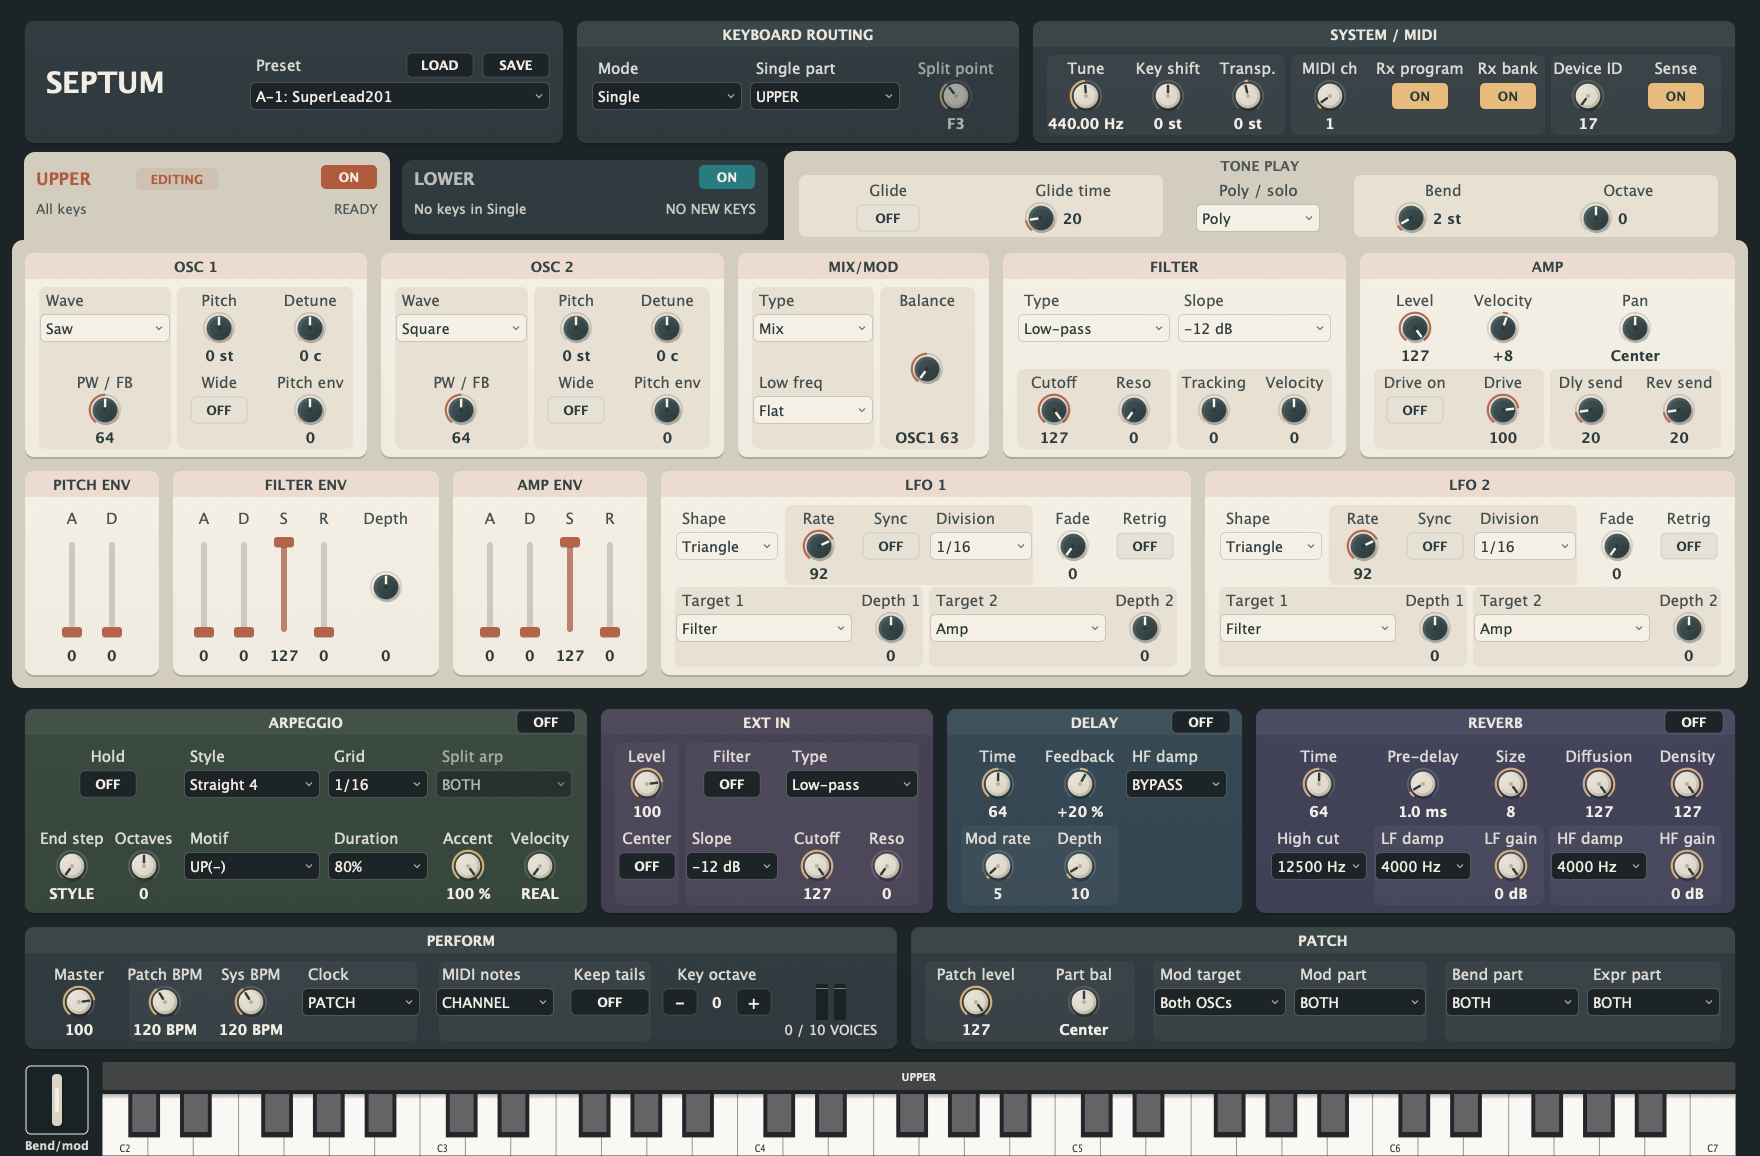
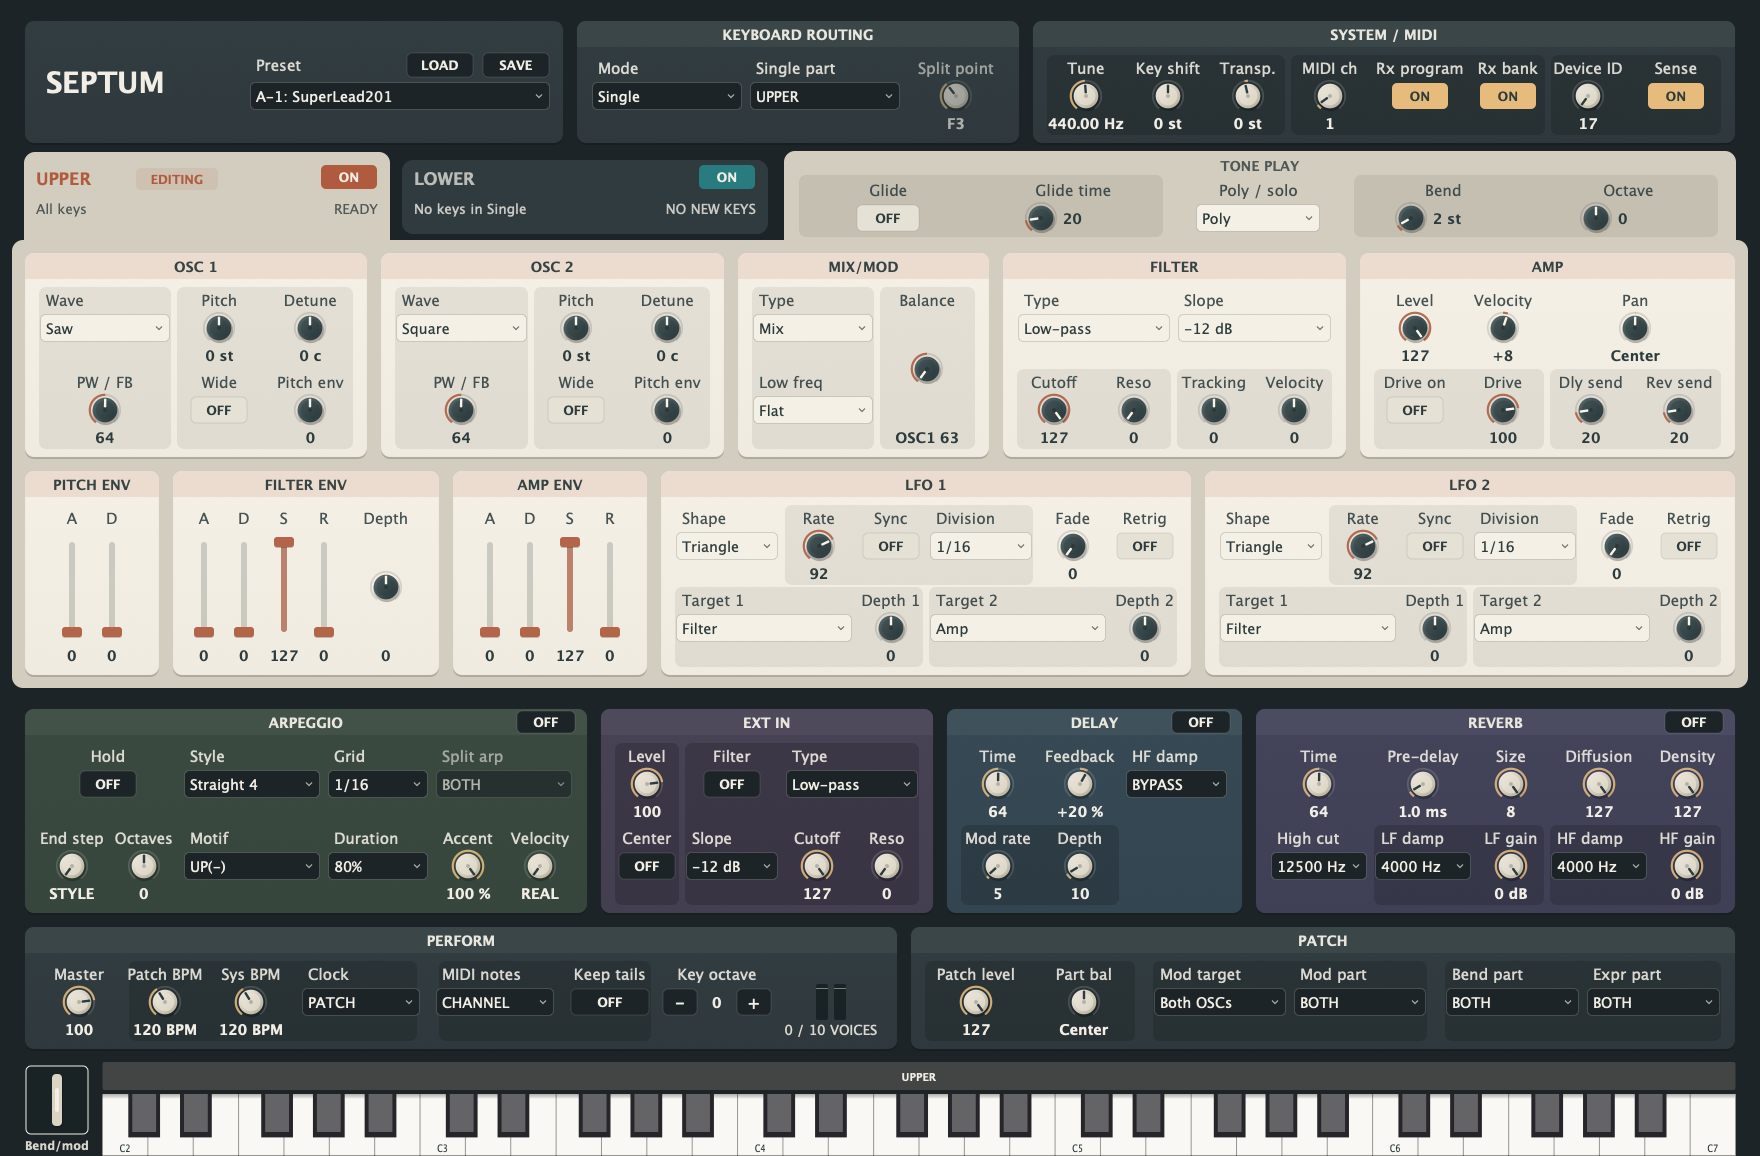
fix: keep inner control islands darker

Changed region(s): [[0.75, 0.1246, 1.0, 0.218], [0.4375, 0.1246, 0.6875, 0.218]]

diff --git a/Source/PluginEditor.cpp b/Source/PluginEditor.cpp
@@ -2136,7 +2136,6 @@ void SeptumAudioProcessorEditor::paintControlGroups (juce::Graphics& g,
                                                       const Section& section)
 {
     const bool light = section.scope == Scope::PerTone;
-    const auto accent = editingUpper ? colours::toneUpper : colours::toneLower;
     const auto group = [&] (std::initializer_list<const char*> suffixes)
     {
         juce::Rectangle<int> bounds;
@@ -2147,8 +2146,9 @@ void SeptumAudioProcessorEditor::paintControlGroups (juce::Graphics& g,
         if (bounds.isEmpty())
             return;
         const auto area = bounds.toFloat().reduced (3.0f, -3.0f);
-        g.setColour (light ? colours::paper.interpolatedWith (accent, 0.035f)
-                           : juce::Colours::white.withAlpha (0.045f));
+        // Darken the actual surface beneath each group, including the
+        // Tone Play tray and every shared panel colour.
+        g.setColour (juce::Colours::black.withAlpha (light ? 0.065f : 0.16f));
         g.fillRoundedRectangle (area, 7.0f);
     };
 

diff --git a/README.md b/README.md
@@ -134,7 +134,7 @@ render code. The open questions are listed under [Known gaps](#known-gaps).
 
 The SH-201-inspired panel combines blue charcoal, warm ivory part panels,
 hardware-style knobs and switches with clear on/off fills. Softly raised cards
-separate the modules, with smaller background islands connecting related
+separate the modules, with smaller, darker background islands connecting related
 controls: oscillator tuning, LFO timing and target/depth pairs, drive and effect
 sends, input filtering, reverb damping, MIDI reception and controller routing.
 Program, keyboard routing and system settings occupy distinct header cards.
